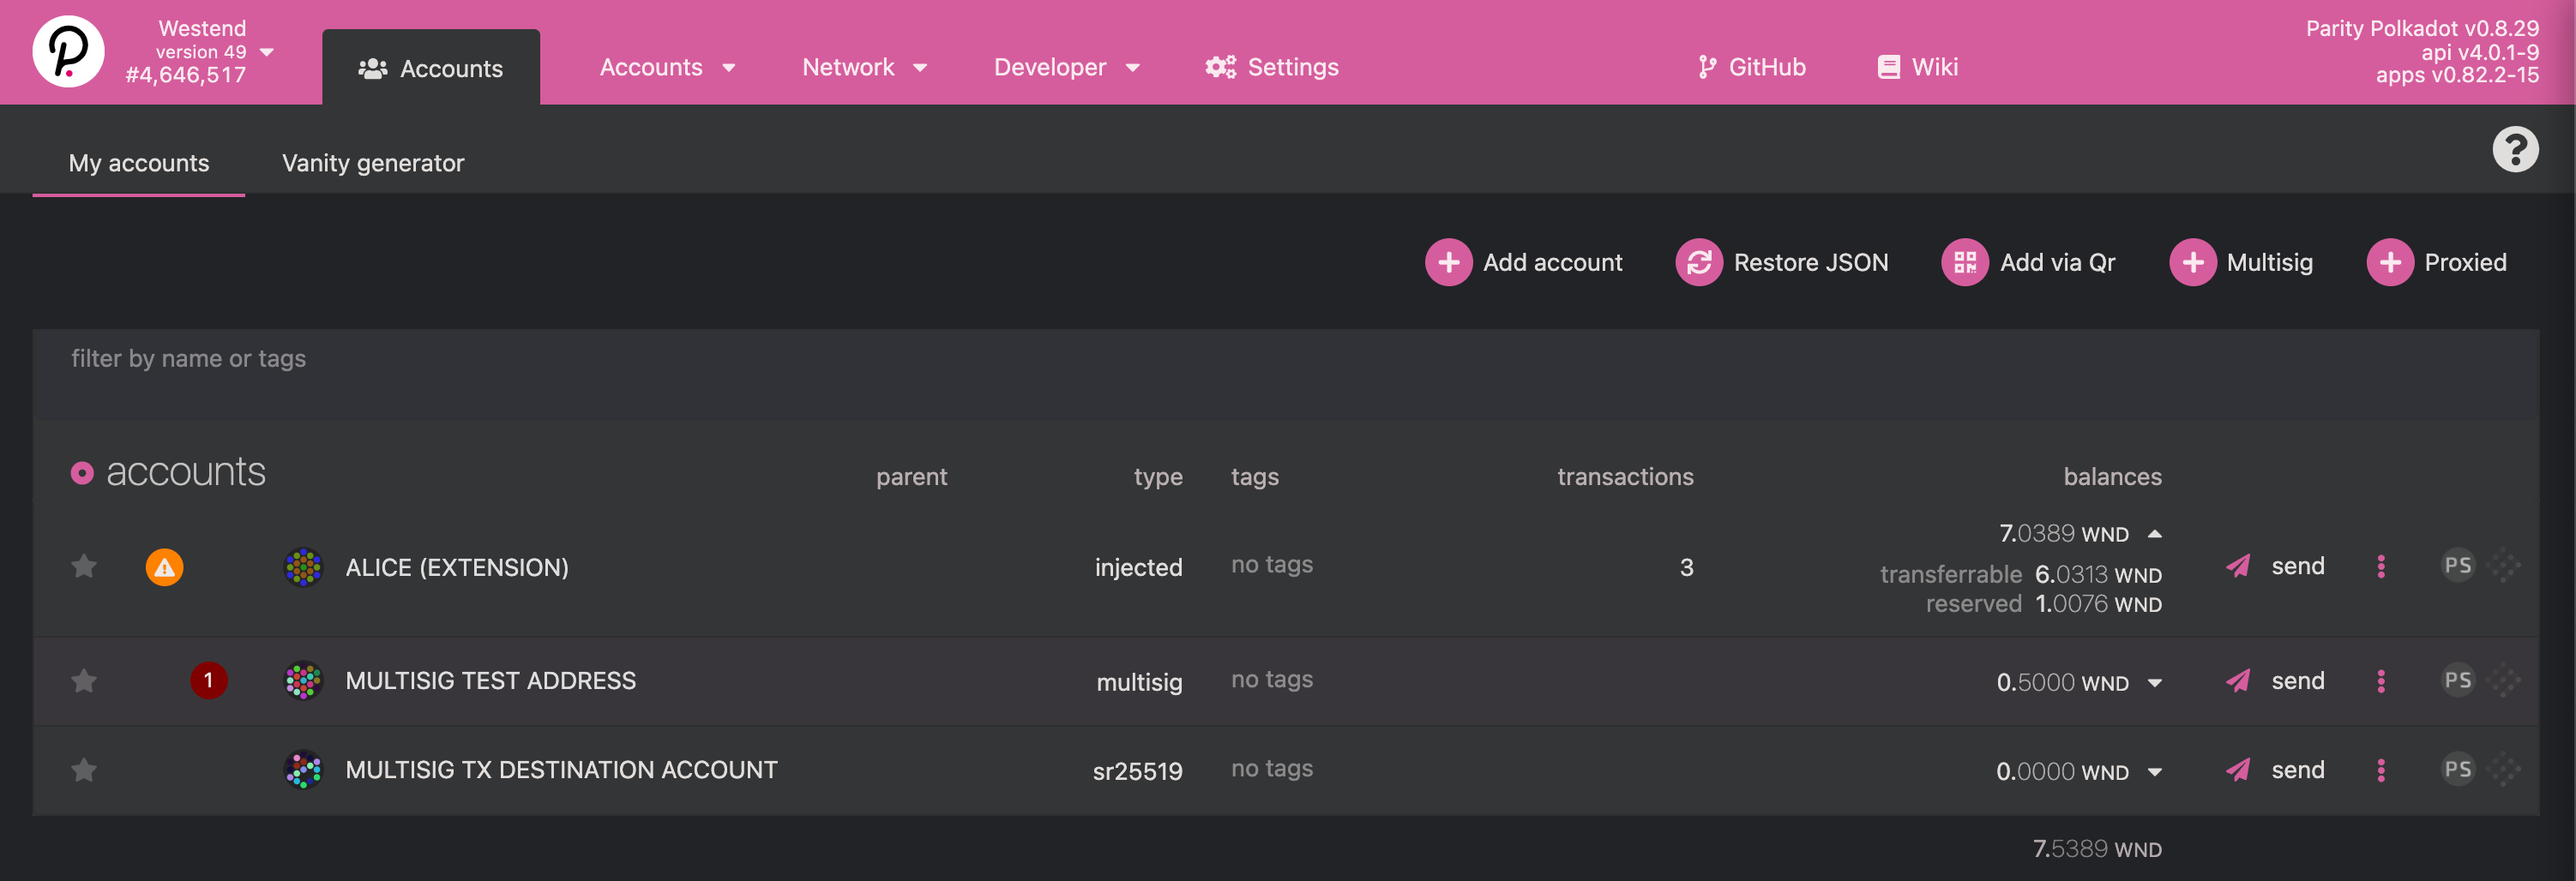
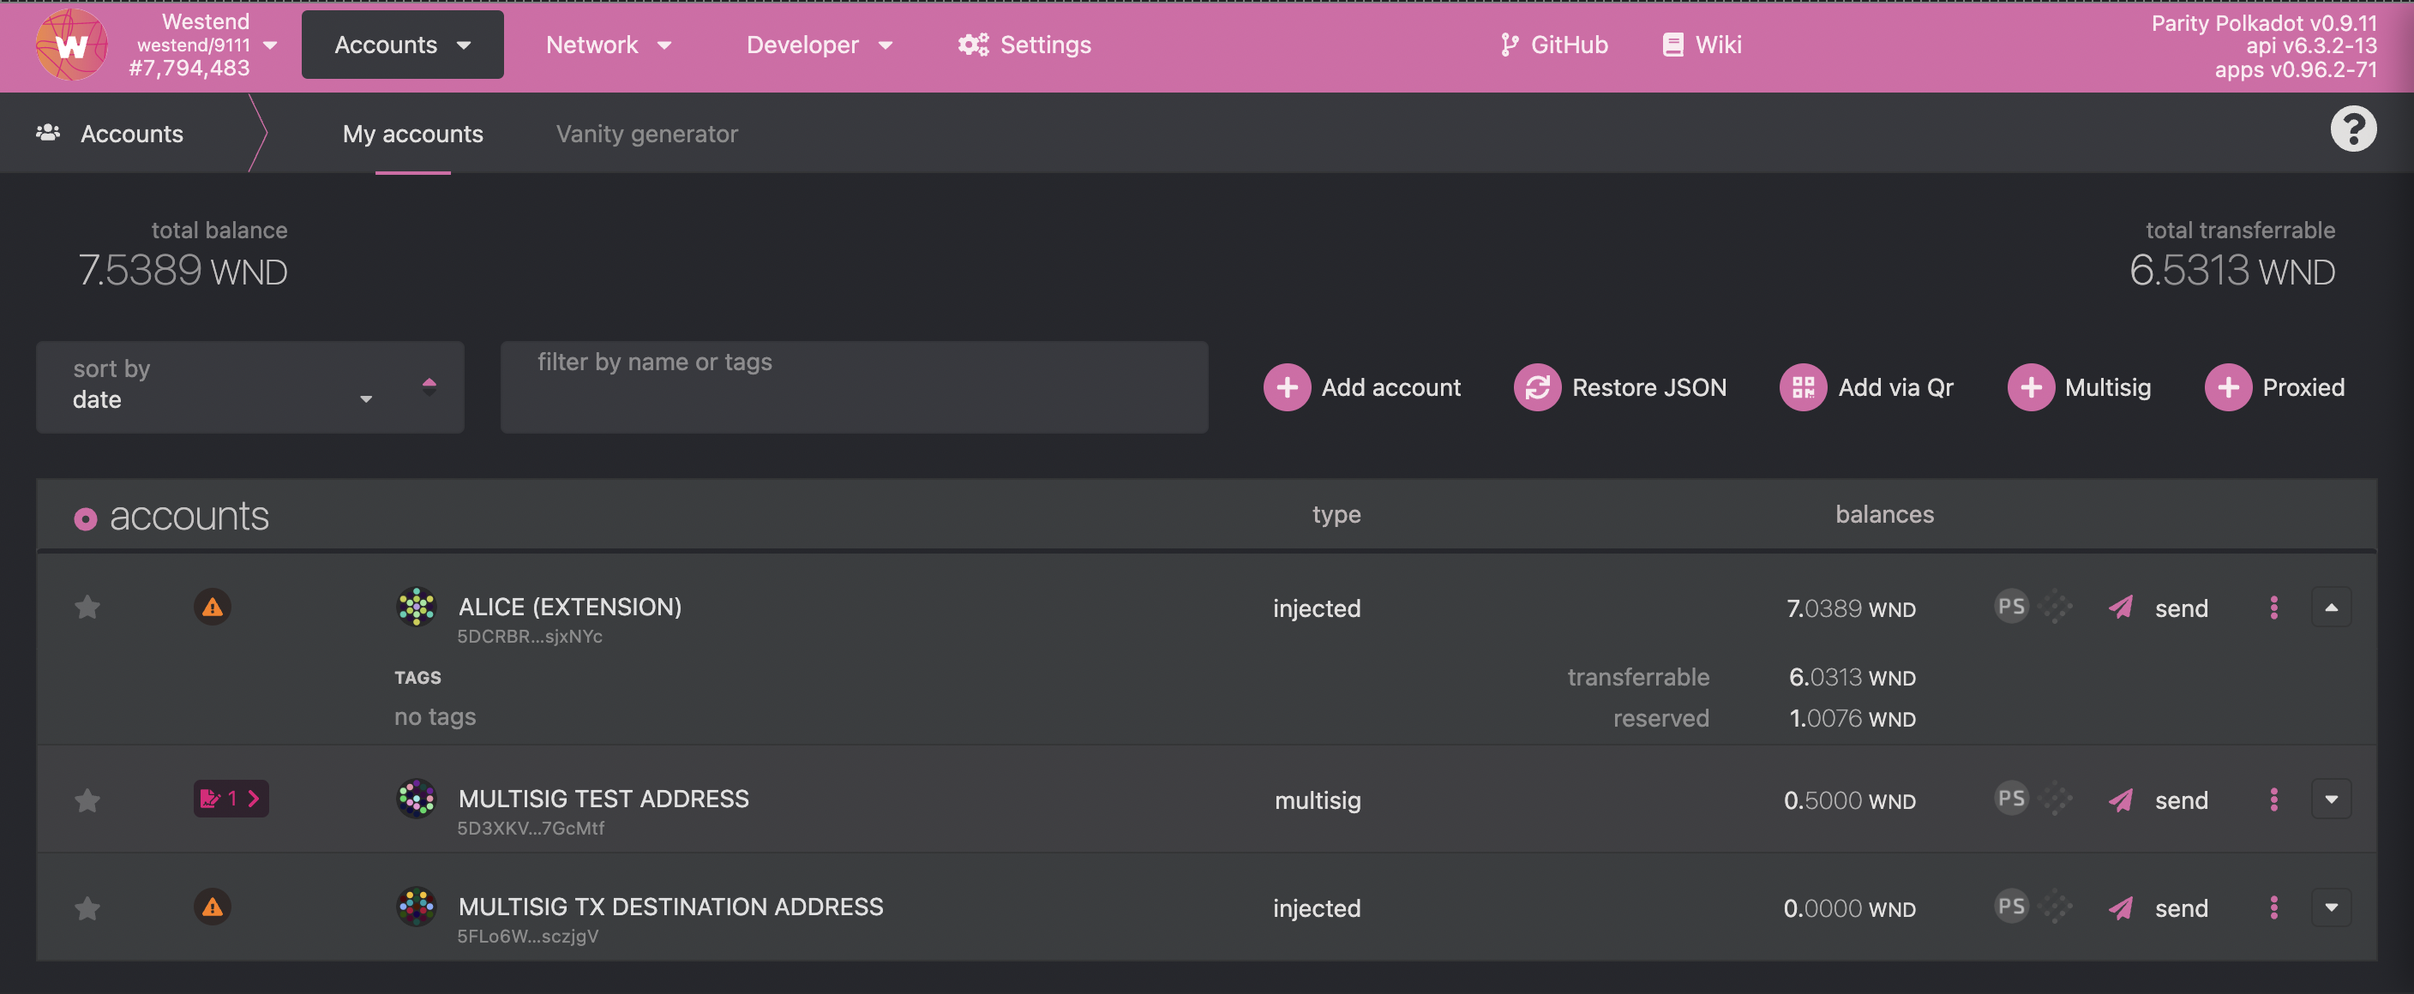
Update multisig docs

diff --git a/docs/learn/learn-accounts.md b/docs/learn/learn-accounts.md
@@ -530,10 +530,10 @@ and sign the transaction.
 
 ![11](../assets/accounts/multisig-11.png)
 
-You will now see a pending transaction the 'Multisig Test Address' (the red '1' icon), and if you
-click the dropdown under Alice's balance - you will see that a value equivalent to the multisig
-deposit has been 'reserved'; rendering that value untransferable until the multisig transaction
-completes.
+You will now see a pending transaction the 'Multisig Test Address' (the purple icon next to the
+account name), and if you click the dropdown under Alice's balance - you will see that a value
+equivalent to the multisig deposit has been 'reserved'; rendering that value untransferable until
+the multisig transaction completes.
 
 ![12](../assets/accounts/multisig-12.png)
 
